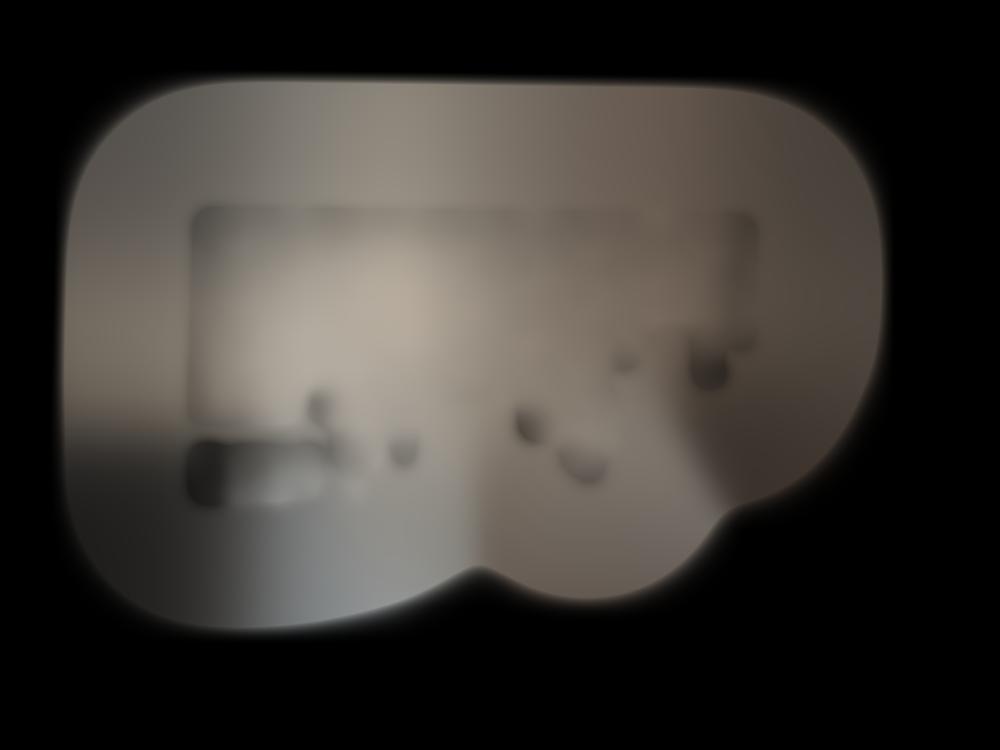
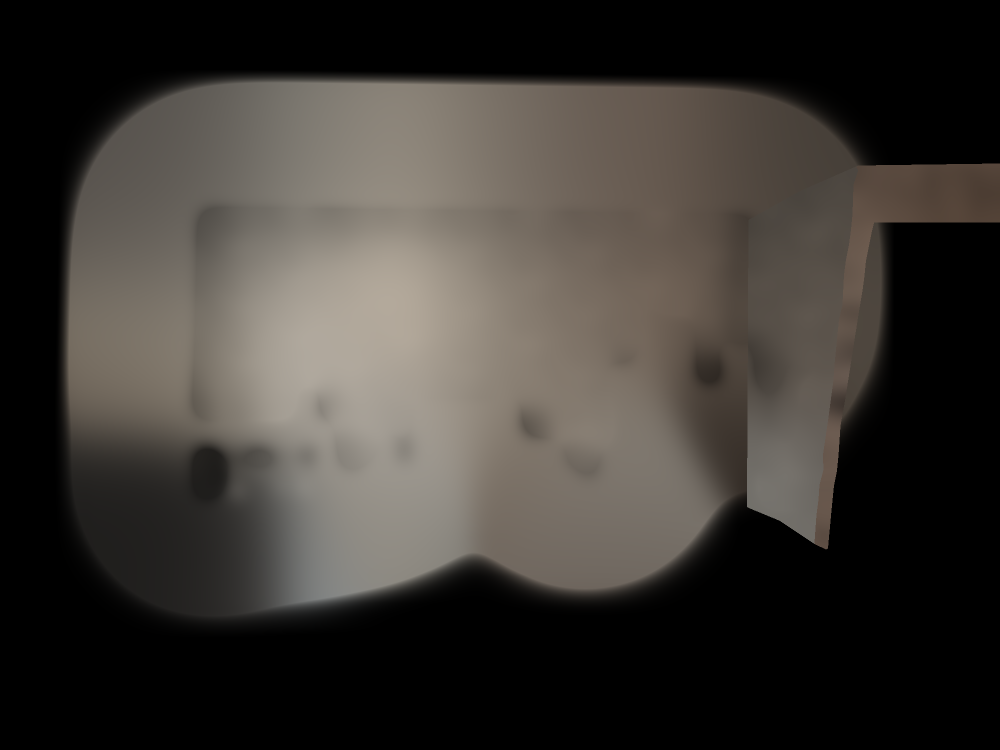
Add wall colour option with presets and a colour picker
The wallpapered surfaces (TV wall, side wall, wall by the door) can be
painted in one of six colours or any colour from the picker. The paint is
lit with each surface's own wallpaper lighting. Object outlines are trimmed
where the margin is plain wallpaper, which also tightens the panel mask.

diff --git a/docs/app.js b/docs/app.js
@@ -12,6 +12,17 @@ const FELTS = [
   { id: "black", name: "Zwart", color: [0.045, 0.045, 0.045] },
   { id: "grey", name: "Grijs", color: [0.22, 0.22, 0.23] },
 ];
+// Wall paint in sRGB (0-1); no colour keeps the wallpaper.
+const PAINTS = [
+  { id: "wallpaper", name: "Behang" },
+  { id: "white", name: "Gebroken wit", color: [0.93, 0.91, 0.87] },
+  { id: "sand", name: "Zand", color: [0.85, 0.79, 0.69] },
+  { id: "sage", name: "Saliegroen", color: [0.66, 0.7, 0.6] },
+  { id: "blue", name: "Grijsblauw", color: [0.56, 0.62, 0.67] },
+  { id: "terracotta", name: "Terracotta", color: [0.76, 0.48, 0.36] },
+  { id: "dark", name: "Antraciet", color: [0.29, 0.3, 0.31] },
+  { id: "custom", name: "Eigen kleur", color: [0.48, 0.62, 0.62] },  // set by the colour picker
+];
 const PANEL_WIDTH_M = 0.6;
 
 const VERTEX = `#version 300 es
@@ -41,6 +52,8 @@ uniform vec3 uWoodBase;
 uniform vec3 uWoodGrain;
 uniform vec3 uFelt;
 uniform float uExposure;
+uniform vec3 uPaint;       // wall paint colour
+uniform float uPaintOn;    // 0 keeps the wallpaper
 uniform float uSplit;      // 0..1, left of it shows the original photo
 
 float hash(vec2 p) { return fract(sin(dot(p, vec2(127.1, 311.7))) * 43758.5453); }
@@ -55,6 +68,12 @@ void main() {
   vec3 photo = texture(uPhoto, vTex).rgb;
   vec2 px = vTex * uSize;
   if (px.x < uSplit * uSize.x) { outColor = vec4(photo, 1.0); return; }
+
+  // Paint over the wallpaper, lit like the wallpaper was.
+  vec3 light = texture(uLight, vTex).rgb * 2.0;
+  float paint = texture(uMask, vTex).g * uPaintOn;
+  vec3 painted = uPaint * light * 0.9 + (hash(px + 7.0) - 0.5) * 0.015;
+  photo = mix(photo, painted, paint);
 
   vec3 q = uToWall * vec3(px, 1.0);
   vec2 uv = q.xy / q.z;
@@ -93,7 +112,6 @@ void main() {
   vec3 felt = uFelt * (0.55 + 0.45 * sin(3.14159 * g)) * (0.9 + 0.2 * noise(px * 0.7));
 
   vec3 panel = mix(felt, wood, slat);
-  vec3 light = texture(uLight, vTex).rgb * 2.0;
   panel *= light * uExposure;
   panel += (hash(px) - 0.5) * 0.02;  // a bit of photo grain
 
@@ -193,6 +211,7 @@ async function main() {
   const state = {
     wood: WOODS[0],
     felt: FELTS[0],
+    paint: PAINTS[0],
     corners: scene.wall.map((p) => [...p]),
     split: 0.5,
   };
@@ -205,6 +224,27 @@ async function main() {
     state.felt = f;
     render();
   });
+  // The wallpaper chip shows a crop of the real wallpaper.
+  const paintCss = (p) => p.color ? `rgb(${p.color.map((c) => c * 255).join(",")})` : `url(${scene.photo}) 40% 40% / 1200%`;
+  buildSwatches($("paints"), PAINTS, paintCss, (p) => {
+    state.paint = p;
+    render();
+  });
+  // The last option takes any colour, from the browser's colour picker inside the chip.
+  const custom = PAINTS.at(-1);
+  const picker = document.createElement("input");
+  picker.type = "color";
+  picker.value = "#7a9e9e";
+  picker.setAttribute("aria-label", "Eigen muurkleur kiezen");
+  $("paints").lastElementChild.querySelector(".chip").append(picker);
+  const pickCustom = () => {
+    custom.color = [1, 3, 5].map((i) => parseInt(picker.value.slice(i, i + 2), 16) / 255);
+    $("paints").lastElementChild.querySelector("input[type=radio]").checked = true;
+    state.paint = custom;
+    render();
+  };
+  picker.addEventListener("click", pickCustom);
+  picker.addEventListener("input", pickCustom);
 
   function render() {
     textures[$("tidy").checked ? "tidy" : "asShot"].forEach((tex, unit) => {
@@ -243,6 +283,8 @@ async function main() {
     gl.uniform3fv(u("uWoodGrain"), state.wood.grain);
     gl.uniform3fv(u("uFelt"), state.felt.color);
     gl.uniform1f(u("uExposure"), exposure);
+    gl.uniform3fv(u("uPaint"), state.paint.color ?? [0, 0, 0]);
+    gl.uniform1f(u("uPaintOn"), state.paint.color ? 1 : 0);
     gl.uniform1f(u("uSplit"), $("compare").checked ? state.split : 0);
     gl.drawArrays(gl.TRIANGLE_STRIP, 0, 4);
 

diff --git a/docs/index.html b/docs/index.html
@@ -6,7 +6,7 @@
   <title>Akupanelen woonkamer</title>
   <meta name="description" content="Probeer houten akoestische panelen uit op de tv-wand.">
   <!-- Bump ?v= on every change: GitHub Pages lets browsers cache files for 10 minutes. -->
-  <link rel="stylesheet" href="style.css?v=12">
+  <link rel="stylesheet" href="style.css?v=14">
 </head>
 <body>
   <header>
@@ -31,6 +31,11 @@
       <fieldset>
         <legend>Vilt</legend>
         <div class="swatches" id="felts"></div>
+      </fieldset>
+
+      <fieldset>
+        <legend>Muur</legend>
+        <div class="swatches" id="paints"></div>
       </fieldset>
 
       <fieldset>
@@ -73,6 +78,6 @@
     <p>Een indruk, geen echte foto: de latten worden in je browser over de originele foto getekend.</p>
   </footer>
 
-  <script src="app.js?v=12"></script>
+  <script src="app.js?v=14"></script>
 </body>
 </html>

diff --git a/docs/style.css b/docs/style.css
@@ -213,6 +213,24 @@ legend ~ * { clear: both; }
 .swatch input:checked ~ span.name { color: var(--text); }
 .swatch input:focus-visible + span.chip { outline: 2px solid var(--accent); outline-offset: 2px; }
 
+/* Colour picker filling a chip. */
+.swatch .chip { overflow: hidden; }
+.swatch .chip input[type="color"] {
+  position: static;
+  opacity: 1;
+  pointer-events: auto;
+  display: block;
+  width: 100%;
+  height: 100%;
+  padding: 0;
+  border: 0;
+  background: none;
+  cursor: pointer;
+}
+.swatch .chip input[type="color"]::-webkit-color-swatch-wrapper { padding: 0; }
+.swatch .chip input[type="color"]::-webkit-color-swatch { border: 0; }
+.swatch .chip input[type="color"]::-moz-color-swatch { border: 0; }
+
 .range {
   display: block;
   margin-bottom: 8px;

diff --git a/tools/build_assets.py b/tools/build_assets.py
@@ -121,6 +121,36 @@ RUG_RIGHT = ((1250, 1128), (1600, 1500))  # assumed right edge once unrolled
 LAMA_URL = "https://huggingface.co/Carve/LaMa-ONNX/resolve/main/lama_fp32.onnx"
 LAMA_PATH = ROOT / ".cache" / "lama_fp32.onnx"
 
+# Wallpapered surfaces that can be painted another colour. Each gets its own lighting,
+# so the brightness step at the wall corners stays sharp.
+PAINT_SURFACES = {
+    "tv_wall": WALL,
+    # Side wall next to the dresser, up to the outer wall corner.
+    "side_wall": [(1500, 441), (1600, 385), (1716, 334), (1720, 340), (1710, 370), (1708, 430),
+                  (1705, 460), (1701, 490), (1695, 520), (1691, 550), (1688, 610), (1681, 640),
+                  (1678, 670), (1675, 700), (1672, 730), (1670, 760), (1660, 835), (1649, 910),
+                  (1650, 940), (1642, 970), (1640, 1000), (1636, 1030), (1632, 1086),
+                  (1560, 1038), (1497, 1012)],
+    # The narrow wall face beside and above the door.
+    "door_wall": [(1716, 334), (2000, 330), (2000, 441), (1745, 441), (1740, 460), (1734, 490),
+                  (1728, 520), (1725, 550), (1721, 580), (1711, 640), (1697, 730), (1686, 800),
+                  (1677, 850), (1673, 910), (1670, 940), (1664, 970), (1661, 1000), (1658, 1030),
+                  (1652, 1095), (1632, 1086), (1636, 1030), (1640, 1000), (1642, 970),
+                  (1650, 940), (1649, 910), (1660, 835), (1670, 760), (1672, 730), (1675, 700),
+                  (1678, 670), (1681, 640), (1688, 610), (1691, 550), (1695, 520), (1701, 490),
+                  (1705, 460), (1708, 430), (1710, 370), (1720, 340)],
+}
+
+# Things on those surfaces that stay when the wall is painted.
+PAINT_OBJECTS = {
+    "owl": [(1560, 764), (1592, 764), (1606, 790), (1604, 830), (1594, 880), (1580, 903),
+            (1552, 893), (1550, 840), (1548, 790)],
+    "switch": [(1567, 720), (1600, 720), (1600, 757), (1567, 757)],
+    "thermostat": [(1613, 729), (1641, 729), (1641, 758), (1613, 758)],
+    "basket": [(1415, 1005), (1497, 1012), (1560, 1038), (1632, 1086), (1700, 1110),
+               (1700, 1160), (1415, 1160)],
+}
+
 # Below the piano the wall is full of thin cables; dark pixels there are cables.
 CABLE_AREA = [(388, 893), (720, 893), (720, 1005), (388, 1005)]
 
@@ -374,13 +404,53 @@ def main():
     k = lambda r: cv2.getStructuringElement(cv2.MORPH_ELLIPSE, (2 * r + 1, 2 * r + 1))
     fg = cv2.bitwise_or(objects, cables)
 
+    # Paint goes where wallpaper shows: on any wallpapered surface, not behind objects.
+    surfaces = {name: fill([points]) for name, points in PAINT_SURFACES.items()}
+    papered = cv2.dilate(fill(PAINT_SURFACES.values()), k(2))
+    # Beside the door the orange wallpaper is told apart by colour from the door frame and
+    # the drawings, magnets and cards stuck over it.
+    hsv = cv2.GaussianBlur(cv2.cvtColor(img, cv2.COLOR_BGR2HSV), (0, 0), 1.5)
+    orange = (hsv[..., 0] >= 8) & (hsv[..., 0] <= 18) & (hsv[..., 1] > 115) & (hsv[..., 2] > 70)
+    orange = cv2.morphologyEx(orange.astype(np.uint8) * 255, cv2.MORPH_OPEN, k(2))
+    orange = cv2.morphologyEx(orange, cv2.MORPH_CLOSE, k(3))
+    door_wall = cv2.dilate(surfaces["door_wall"], k(2))
+    papered[(door_wall > 0) & (cv2.dilate(surfaces["side_wall"], k(2)) == 0) & (orange == 0)] = 0
+    on_wall = fill(PAINT_OBJECTS.values())
+    paint_fg = objects | fill(TOYS.values()) | cables | on_wall
+    paint_fg_tidy = furniture | cables | on_wall
+
+    # The object outlines are a little generous. Wallpaper in that margin (colour within
+    # the local spread of the wallpaper next to it) counts as wall again. Measured on the
+    # photo as shot, with everything in place, and used for the tidy masks as well.
+    lab_f = cv2.cvtColor(img, cv2.COLOR_BGR2LAB).astype(np.float32)
+    known = ((papered > 0) & (paint_fg == 0)).astype(np.float32)
+    den = np.maximum(cv2.GaussianBlur(known, (0, 0), 20), 1e-4)[..., None]
+    mean = cv2.GaussianBlur(lab_f * known[..., None], (0, 0), 20) / den
+    var = cv2.GaussianBlur(lab_f ** 2 * known[..., None], (0, 0), 20) / den - mean ** 2
+    z = np.abs(lab_f - mean) / np.sqrt(np.maximum(var, 0) + 4)
+    near = cv2.dilate(known.astype(np.uint8), k(10)) > 0
+    # Brightness may differ a bit more (contact shadows), colour hardly.
+    like = (z[..., 0] < 2.8) & (z[..., 1:].max(axis=2) < 2.0)
+    margin = ((paint_fg > 0) & like & near).astype(np.uint8) * 255
+    margin = cv2.morphologyEx(margin, cv2.MORPH_OPEN, k(1))
+
+    def trim(fg):
+        return cv2.bitwise_and(fg, cv2.bitwise_not(margin))
+
     # Panels are visible where the wall is and no object is in front of it.
     def visible_mask(fg):
-        visible = cv2.bitwise_and(cv2.dilate(wall, k(3)), cv2.bitwise_not(fg))
+        visible = cv2.bitwise_and(cv2.dilate(wall, k(3)), cv2.bitwise_not(trim(fg)))
         return cv2.GaussianBlur(visible, (0, 0), 0.8)
 
     visible = visible_mask(fg)
     visible_tidy = visible_mask(cv2.bitwise_or(furniture, cables))
+
+    def paint_mask(fg):
+        return cv2.GaussianBlur(cv2.bitwise_and(papered, cv2.bitwise_not(trim(fg))), (0, 0), 0.8)
+
+    # Mask images: red = where panels show, green = where paint shows.
+    def mask_image(visible, fg):
+        return cv2.merge([np.zeros_like(visible), paint_mask(fg), visible])
 
     tidy = inpaint_toys(img, furniture)
     holes = fill(TOYS.values())
@@ -393,31 +463,45 @@ def main():
 
     # Wall lighting: wallpaper luminance with the pattern blurred away. Normalised
     # convolution over wall pixels only, so objects do not bleed into it.
-    wall_px = ((wall > 0) & (fg == 0)).astype(np.float32)
     lab = cv2.cvtColor(img, cv2.COLOR_BGR2LAB)
     lum = lab[:, :, 0].astype(np.float32) / 255.0
-    sigma = 18
-    num = cv2.GaussianBlur(lum * wall_px, (0, 0), sigma)
-    den = cv2.GaussianBlur(wall_px, (0, 0), sigma)
-    light = num / np.maximum(den, 1e-4)
-    # Fill the far gaps (behind big objects) from a wider blur.
-    num2 = cv2.GaussianBlur(lum * wall_px, (0, 0), sigma * 4)
-    den2 = cv2.GaussianBlur(wall_px, (0, 0), sigma * 4)
-    light2 = num2 / np.maximum(den2, 1e-4)
-    t = np.clip(den * 4, 0, 1)
-    light = light * t + light2 * (1 - t)
-    # Light colour (warm tint of the room light), from the same wall pixels.
-    tint = cv2.GaussianBlur(img.astype(np.float32) * wall_px[..., None], (0, 0), sigma * 4)
-    tint = tint / np.maximum(den2[..., None], 1e-4)
-    tint = tint / np.maximum(tint.mean(axis=2, keepdims=True), 1e-4)
-    # The wallpaper is yellowish itself, so keep only a hint of its colour as light tint.
-    tint = 1 + (tint - 1) * 0.3
+
+    def lighting(px, sigma=18):
+        num = cv2.GaussianBlur(lum * px, (0, 0), sigma)
+        den = cv2.GaussianBlur(px, (0, 0), sigma)
+        light = num / np.maximum(den, 1e-4)
+        # Fill the far gaps (behind big objects) from a wider blur.
+        num2 = cv2.GaussianBlur(lum * px, (0, 0), sigma * 4)
+        den2 = cv2.GaussianBlur(px, (0, 0), sigma * 4)
+        light2 = num2 / np.maximum(den2, 1e-4)
+        t = np.clip(den * 4, 0, 1)
+        light = light * t + light2 * (1 - t)
+        # Light colour (warm tint of the room light), from the same wall pixels.
+        tint = cv2.GaussianBlur(img.astype(np.float32) * px[..., None], (0, 0), sigma * 4)
+        tint = tint / np.maximum(den2[..., None], 1e-4)
+        tint = tint / np.maximum(tint.mean(axis=2, keepdims=True), 1e-4)
+        # The wallpaper is yellowish itself, so keep only a hint of its colour as light tint.
+        return light, 1 + (tint - 1) * 0.3
+
+    # Leave out a margin around objects: their contact shadows would otherwise show up as
+    # dark smudges where the toys are painted out.
+    shadowed = cv2.dilate(paint_fg, k(8))
+    wall_px = ((wall > 0) & (shadowed == 0)).astype(np.float32)
+    light, tint = lighting(wall_px)
+    # The other wallpapered surfaces get their own lighting, used by the paint only.
+    for name, surface in surfaces.items():
+        if name == "tv_wall":
+            continue
+        inside = cv2.dilate(surface, k(3)) > 0
+        light_s, tint_s = lighting(((surface > 0) & (shadowed == 0)).astype(np.float32))
+        light[inside] = light_s[inside]
+        tint[inside] = tint_s[inside]
 
     OUT.mkdir(parents=True, exist_ok=True)
     cv2.imwrite(str(OUT / "photo.jpg"), img, [cv2.IMWRITE_JPEG_QUALITY, 90])
-    cv2.imwrite(str(OUT / "mask.png"), visible)
+    cv2.imwrite(str(OUT / "mask.png"), mask_image(visible, paint_fg))
     cv2.imwrite(str(OUT / "photo-tidy.jpg"), tidy, [cv2.IMWRITE_JPEG_QUALITY, 90])
-    cv2.imwrite(str(OUT / "mask-tidy.png"), visible_tidy)
+    cv2.imwrite(str(OUT / "mask-tidy.png"), mask_image(visible_tidy, paint_fg_tidy))
     # Stored relative to the average wall brightness: 128 = average.
     light = light / light[wall_px > 0].mean()
     light_rgb = np.clip(tint * light[..., None] * 0.5 * 255, 0, 255).astype(np.uint8)

diff --git a/README.md b/README.md
@@ -32,4 +32,6 @@ python3 -m venv .venv
 
 Voor de optie "Opruimen" schildert het script speelgoed en andere spullen weg met het LaMa-inpaintmodel (Apache-2.0). Dat wordt de eerste keer gedownload naar `.cache/` (ongeveer 200 MB) en komt niet in git.
 
+Voor de optie "Muur" staat in `PAINT_SURFACES` waar behang zit. De verf krijgt per muurvlak de belichting van het behang dat er zat.
+
 De hoeken van de wand en de omtrek van alles wat ervoor staat zijn met de hand ingemeten in `tools/build_assets.py`.
